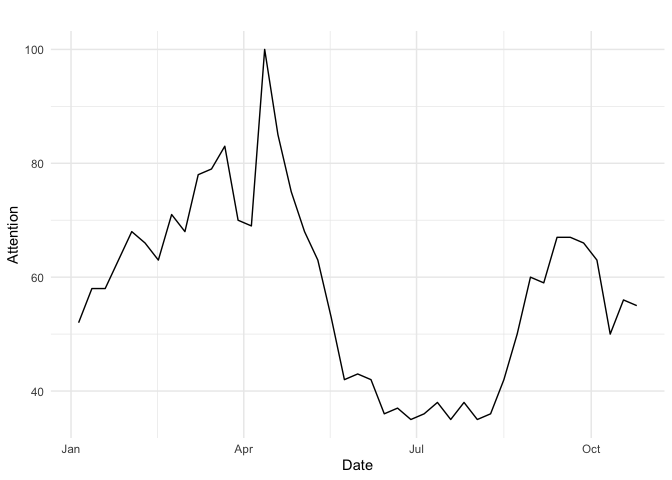
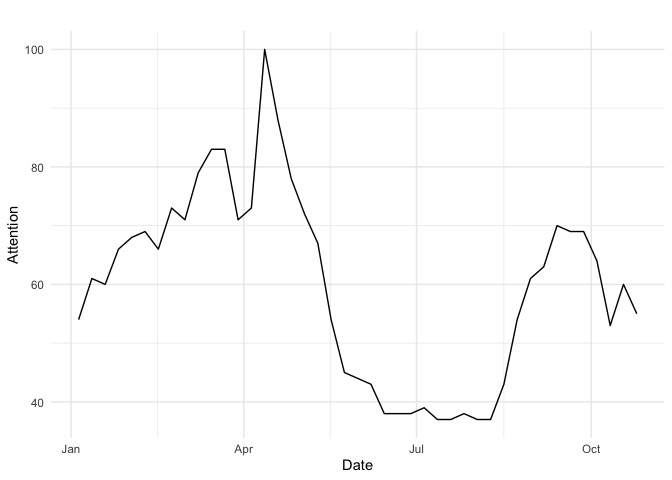
add tutorial times series part 1

diff --git a/tutorial_times_series_part1.md b/tutorial_times_series_part1.md
@@ -233,12 +233,12 @@ head(d)
 ```
 
     ##         date hits keyword geo                  time gprop category      date2
-    ## 1 2020-01-05   52 economy  US 2020-01-01 2020-10-31   web        0 2020-01-05
-    ## 2 2020-01-12   58 economy  US 2020-01-01 2020-10-31   web        0 2020-01-12
-    ## 3 2020-01-19   58 economy  US 2020-01-01 2020-10-31   web        0 2020-01-19
-    ## 4 2020-01-26   63 economy  US 2020-01-01 2020-10-31   web        0 2020-01-26
+    ## 1 2020-01-05   54 economy  US 2020-01-01 2020-10-31   web        0 2020-01-05
+    ## 2 2020-01-12   61 economy  US 2020-01-01 2020-10-31   web        0 2020-01-12
+    ## 3 2020-01-19   60 economy  US 2020-01-01 2020-10-31   web        0 2020-01-19
+    ## 4 2020-01-26   66 economy  US 2020-01-01 2020-10-31   web        0 2020-01-26
     ## 5 2020-02-02   68 economy  US 2020-01-01 2020-10-31   web        0 2020-02-02
-    ## 6 2020-02-09   66 economy  US 2020-01-01 2020-10-31   web        0 2020-02-09
+    ## 6 2020-02-09   69 economy  US 2020-01-01 2020-10-31   web        0 2020-02-09
     ##        date3  n
     ## 1 2020-01-06 15
     ## 2 2020-01-13 14
@@ -408,7 +408,7 @@ head(as.data.frame(d))  ## use as.data.frame for prettier printing (due to compa
     ## 2020-01-02     245.0312            NA              12
     ## 2020-01-03     215.9512            NA              16
     ## 2020-01-04           NA            NA              14
-    ## 2020-01-05           NA            52              15
+    ## 2020-01-05           NA            54              15
     ## 2020-01-06     289.3887            NA              16
 
 To later merge the polling data, I need to convert the `dt` data set
@@ -475,14 +475,14 @@ head(d, 15)
     ## 2  2020-01-02    245.03125            NA              12      <NA>
     ## 3  2020-01-03    215.95117            NA              16      <NA>
     ## 4  2020-01-04           NA            NA              14      <NA>
-    ## 5  2020-01-05           NA            52              15      <NA>
+    ## 5  2020-01-05           NA            54              15      <NA>
     ## 6  2020-01-06    289.38867            NA              16      <NA>
     ## 7  2020-01-07    120.22070            NA              15      <NA>
     ## 8  2020-01-08    343.66992            NA              29      <NA>
     ## 9  2020-01-09    143.69922            NA              21      <NA>
     ## 10 2020-01-10    219.97070            NA              20      <NA>
     ## 11 2020-01-11           NA            NA              14      <NA>
-    ## 12 2020-01-12           NA            58              14      <NA>
+    ## 12 2020-01-12           NA            61              14      <NA>
     ## 13 2020-01-13     90.48047            NA              24      <NA>
     ## 14 2020-01-14    181.89062            NA              28      <NA>
     ## 15 2020-01-15    230.24023            NA              27      <NA>
@@ -546,7 +546,8 @@ long_d <- combined %>%
                ifelse(id == "media", "Subjective Economy",
                ifelse(id == "trends", "Subjective Economy", "Objective Economy"))))
 
-ggplot(data = long_d, 
+library(gganimate)
+p <- ggplot(data = long_d, 
        mapping = aes(x = date, y = value, group = id, colour = id)) +
   geom_line() +
   labs(x = "", y = "Mean Values", title = "Times-Series: Objective and Subjective State of the Economy & Trump Support") +
@@ -556,9 +557,10 @@ ggplot(data = long_d,
   theme(legend.title=element_blank(), #edit the legend
         legend.position = "bottom",
         plot.title = element_text(hjust = 0.5))
+p + transition_reveal(date)
 ```
 
-![](tutorial_times_series_part1_files/figure-gfm/unnamed-chunk-29-1.png)<!-- -->
+![](tutorial_times_series_part1_files/figure-gfm/unnamed-chunk-29-1.gif)<!-- -->
 
 At this point it might be appropriate to say that we do not actually
 need to use this complex, lengthy custom plot code. R has special
